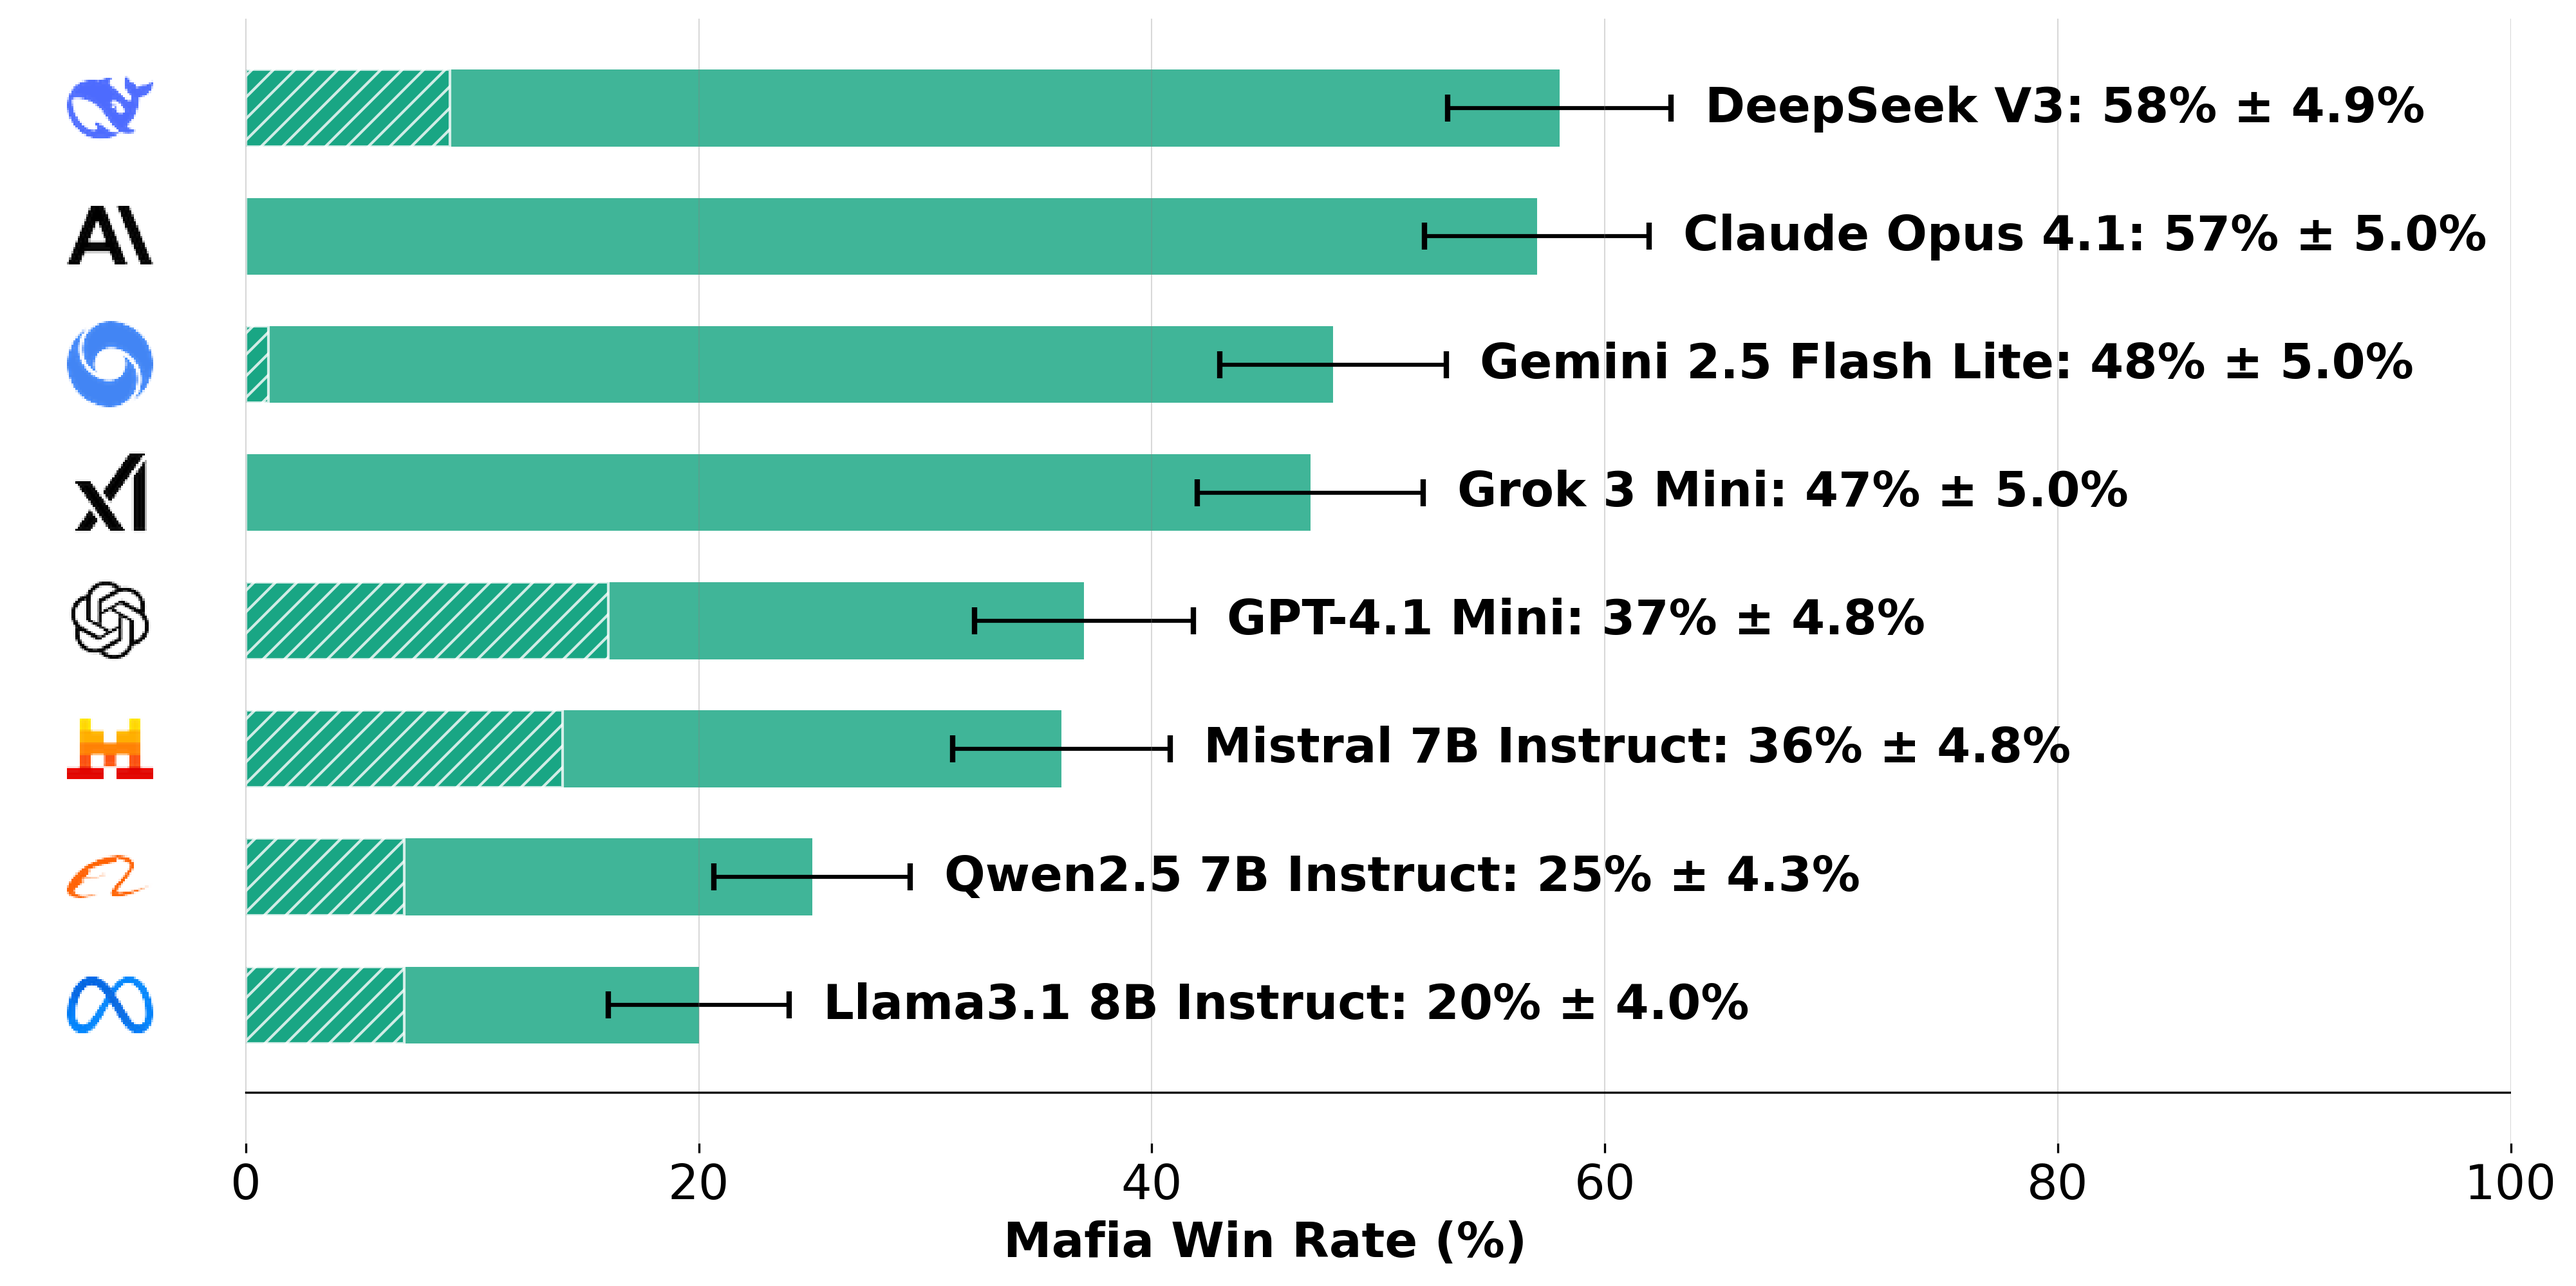
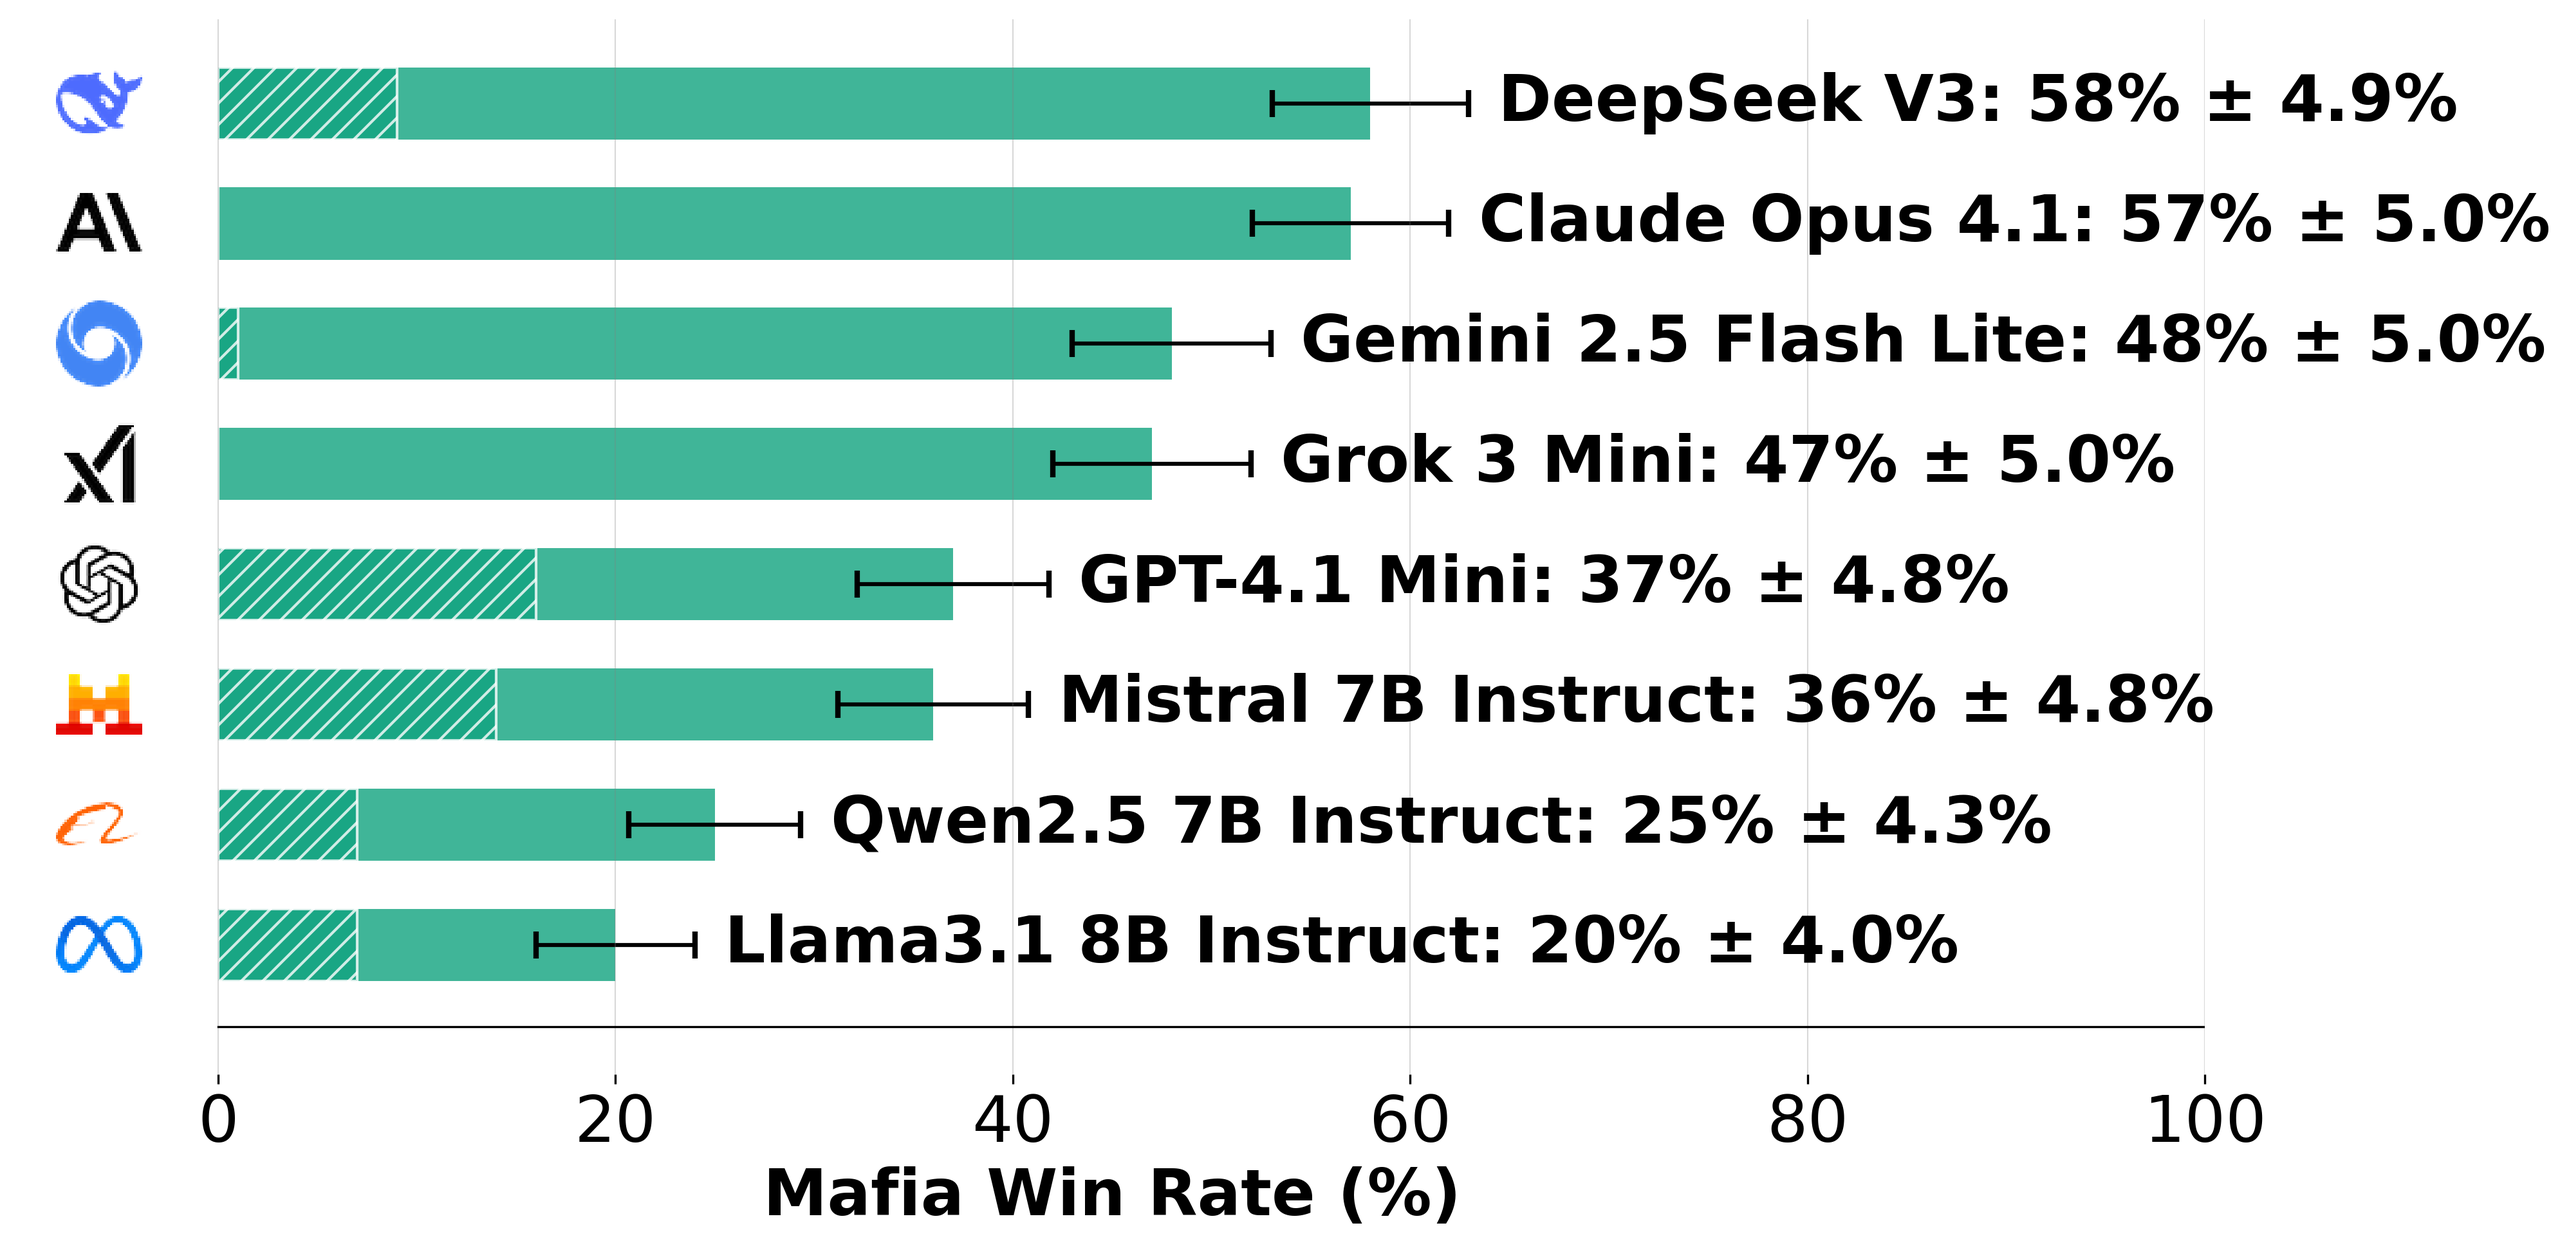
Complete academic paper with NeurIPS template and comprehensive exceptional game analysis
- Apply professional NeurIPS 2024 LaTeX template to main article
- Add complete exceptional game analysis section with detailed dialogues:
  - Llama 3.1 victory against Grok-3-Mini (1 game)
  - Mistral 7B victories with advanced deception strategies (2 games)
  - DeepSeek V3 superior performance examples (58% win rate vs GPT-4.1 Mini)
  - GPT-4.1 Mini detective reasoning failures (3 rare cases)
- Update benchmark plots with 24pt fonts and professional formatting
- Remove titles/legends from plots, add "Town Win Rate" labeling
- Move analysis tools from analysis/ to results/ directory for organization
- Generate final v4.1 benchmark results with enhanced typography
- Create publication-ready article structure with balanced figure layouts

diff --git a/mini-mafia/results/create_benchmark_plots.py b/mini-mafia/results/create_benchmark_plots.py
@@ -494,15 +494,15 @@ def create_benchmark_plot(benchmark_data, title, filename, background_key="", us
     # Use non-interactive backend
     plt.ioff()
     
-    # Set font size to match LaTeX document (much larger for readability)
+    # Set font size to match LaTeX document (even larger for better readability)
     plt.rcParams.update({
-        'font.size': 18,
-        'axes.labelsize': 18,
-        'axes.titlesize': 18,
-        'xtick.labelsize': 18,
-        'ytick.labelsize': 18,
-        'legend.fontsize': 18,
-        'figure.titlesize': 18
+        'font.size': 24,
+        'axes.labelsize': 24,
+        'axes.titlesize': 24,
+        'xtick.labelsize': 24,
+        'ytick.labelsize': 24,
+        'legend.fontsize': 24,
+        'figure.titlesize': 24
     })
     
     fig, ax = plt.subplots(figsize=(14, 7))
@@ -531,7 +531,7 @@ def create_benchmark_plot(benchmark_data, title, filename, background_key="", us
     # Add model names and values on the right side of bars
     for i, (model, value, error) in enumerate(zip(models, values, errors)):
         ax.text(value + error + 1.5, i, f'{model}: {value:.0f}% ± {error:.1f}%', 
-                ha='left', va='center', fontweight='bold', fontsize=18)
+                ha='left', va='center', fontweight='bold', fontsize=24)
     
     # Add company logos on the left
     for i, company in enumerate(companies):
@@ -546,12 +546,12 @@ def create_benchmark_plot(benchmark_data, title, filename, background_key="", us
                 print(f"Failed to add logo for {company}: {e}")
                 # Fallback to company initial
                 ax.text(-6, i, company[0], ha='center', va='center', 
-                        fontweight='bold', fontsize=18, color='black',
+                        fontweight='bold', fontsize=24, color='black',
                         bbox=dict(boxstyle="circle,pad=0.3", facecolor='lightgray'))
         else:
             # Fallback to company initial
             ax.text(-6, i, company[0], ha='center', va='center', 
-                    fontweight='bold', fontsize=18, color='black',
+                    fontweight='bold', fontsize=24, color='black',
                     bbox=dict(boxstyle="circle,pad=0.3", facecolor='lightgray'))
     
     # Set axis labels based on metric type
@@ -561,7 +561,7 @@ def create_benchmark_plot(benchmark_data, title, filename, background_key="", us
         xlabel = 'Mafia Win Rate (%)'
     
     # Formatting
-    ax.set_xlabel(xlabel, fontsize=18, fontweight='bold')
+    ax.set_xlabel(xlabel, fontsize=24, fontweight='bold')
     # Remove title - will be handled by LaTeX captions
     ax.set_yticks([])  # Remove y-axis labels
     ax.set_xlim(-10, 100)  # Set range from -10 (for logos) to 100 (full domain)
